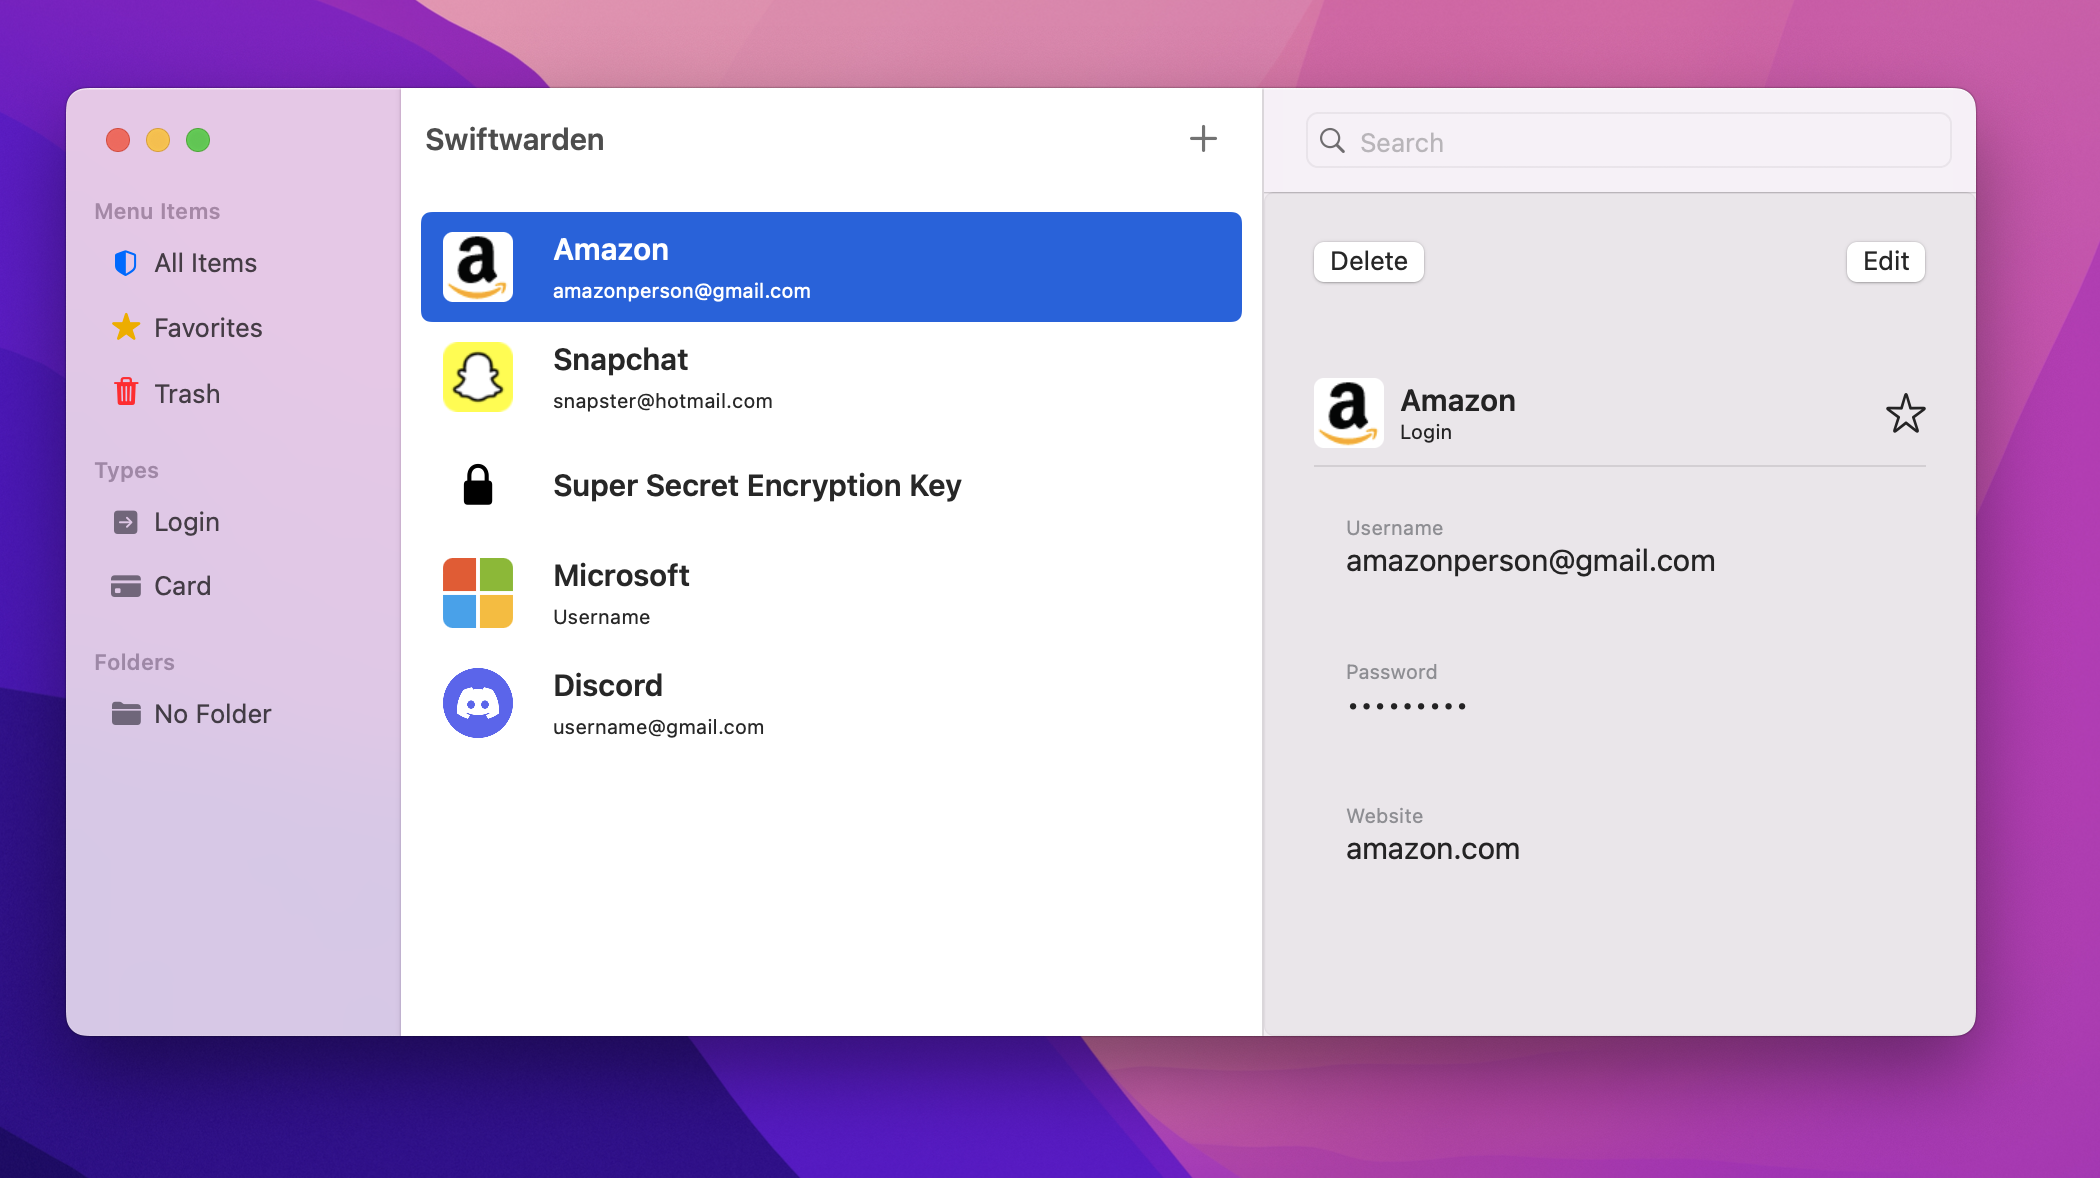
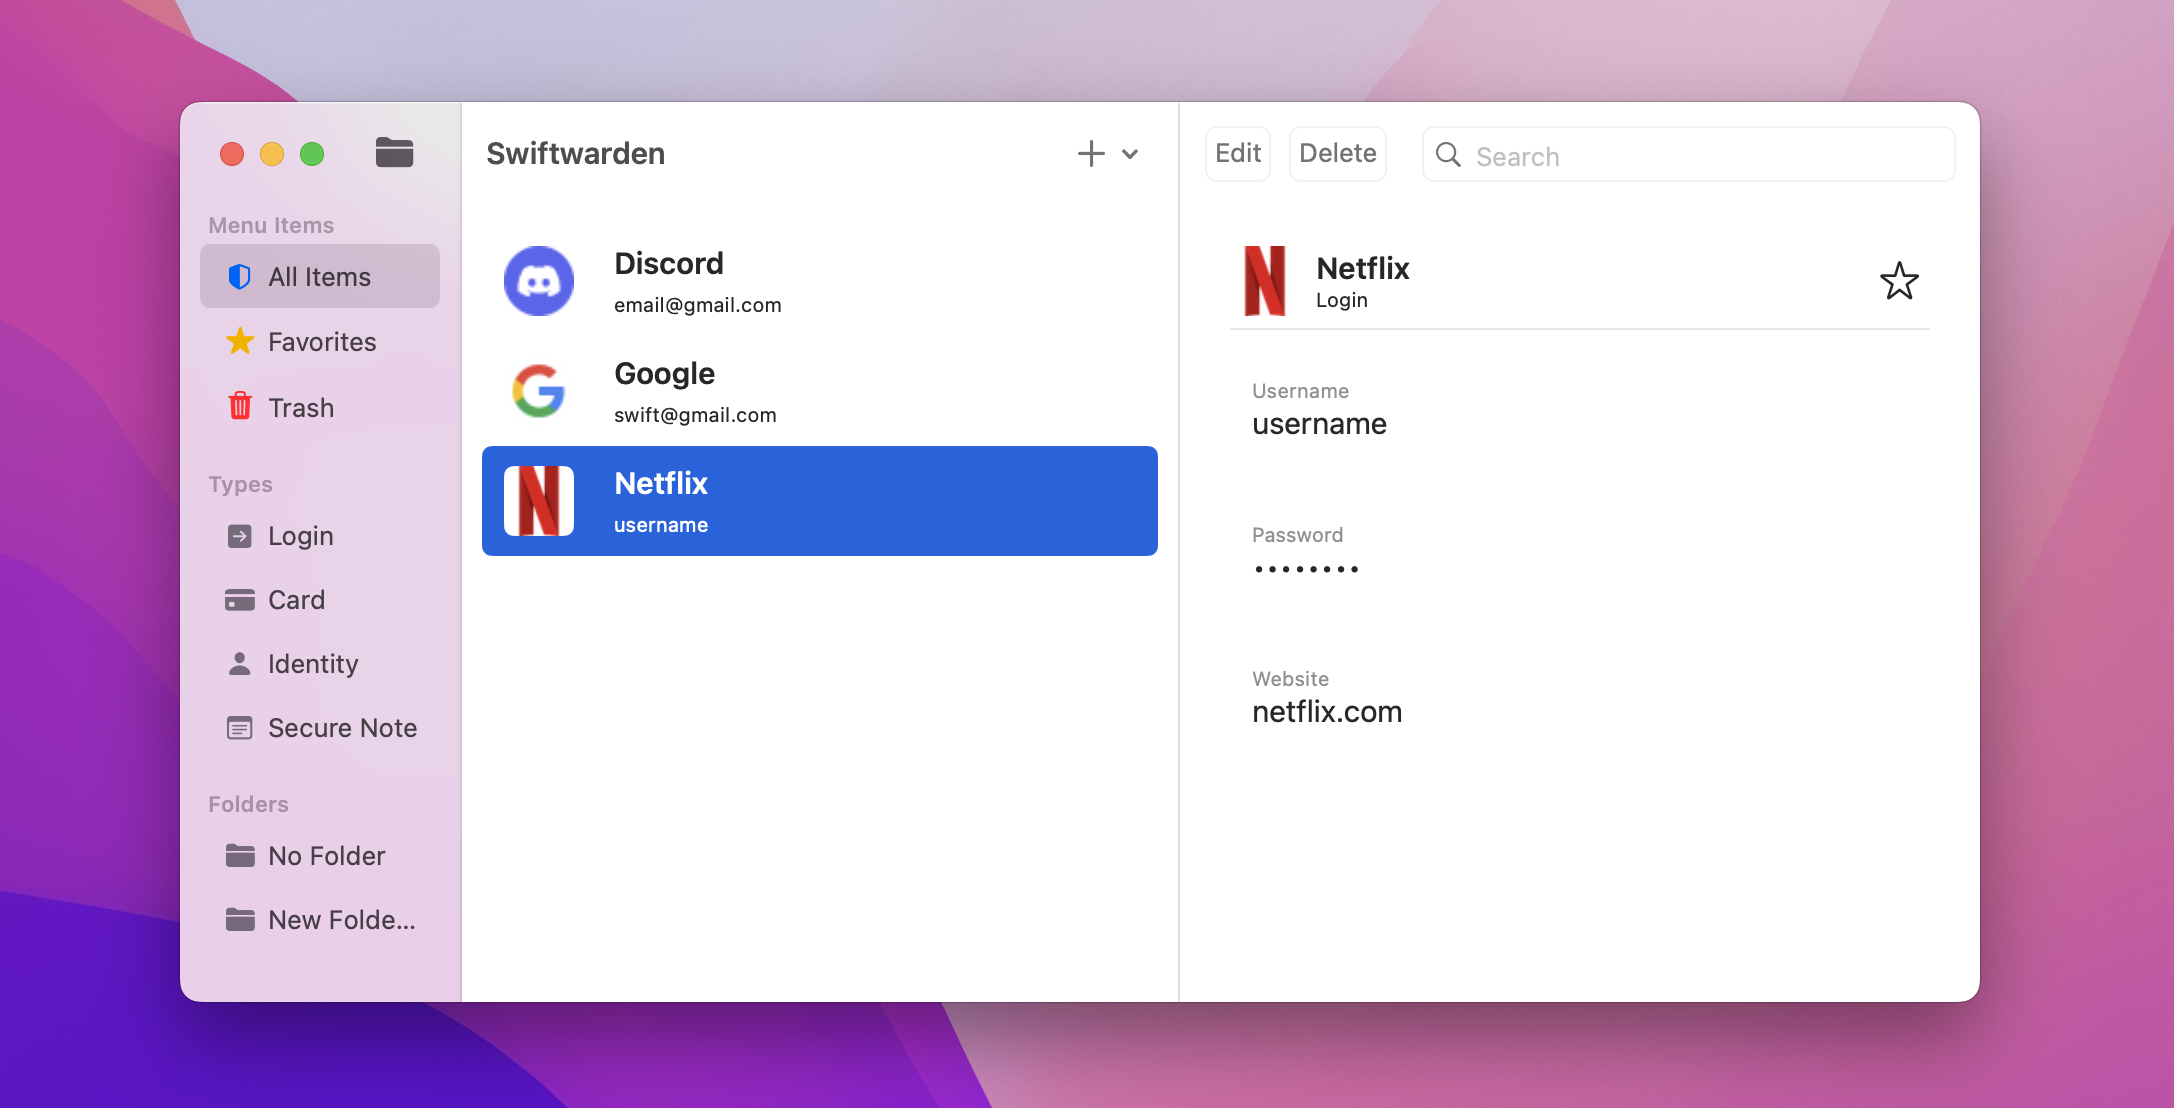
update README.md

diff --git a/README.md b/README.md
@@ -4,7 +4,7 @@
     An elegant MacOS client for Bitwarden written in Swift
 </p>
 
-<p align="center"><img src="Images/Dark.png" width="864"></p>
+<p align="center"><img src="Images/Light.png" width="864"></p>
 
 # Supports
 - Basic password creation, viewing and interacting
